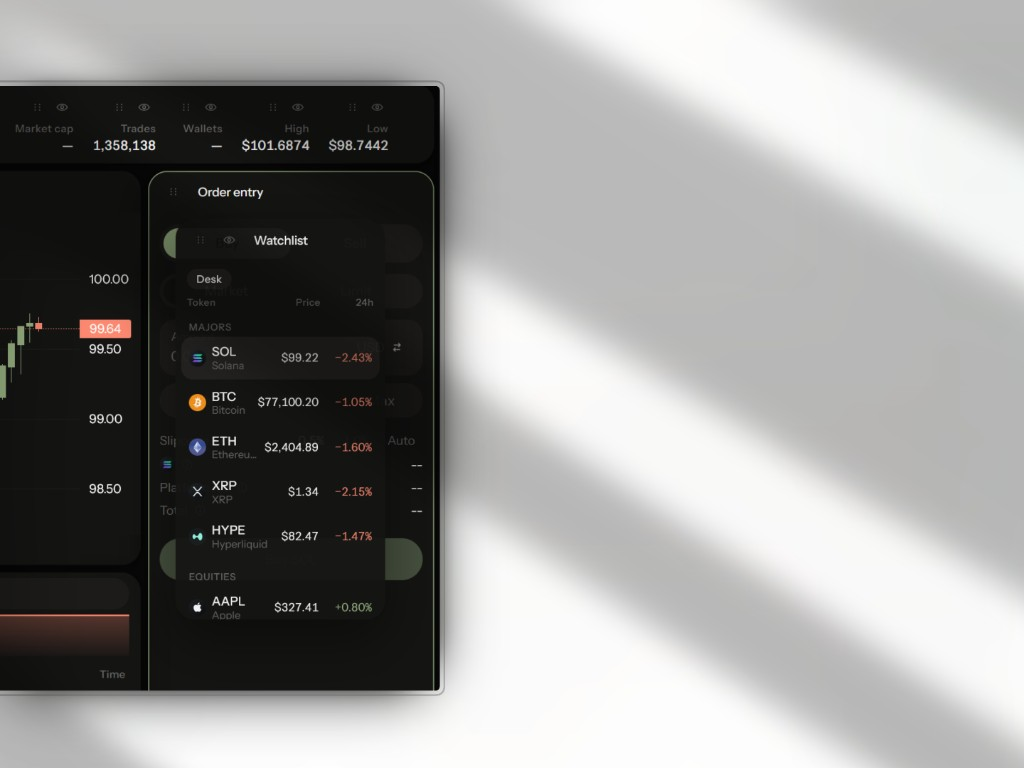
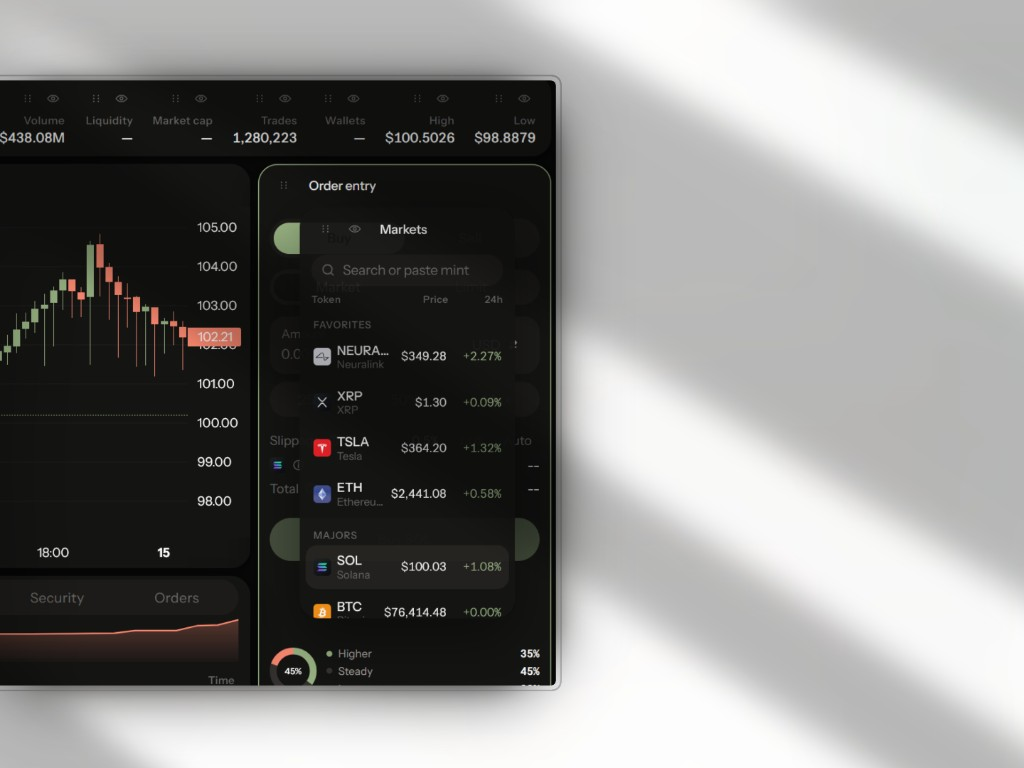
Swap the layout card for a markets panel floating over the desk.

diff --git a/index.html b/index.html
@@ -245,7 +245,7 @@
               <figure class="ambition__shot">
                 <img
                   src="./images/easy-layout.png"
-                  alt="Acend desk with a draggable watchlist over the chart and order ticket"
+                  alt="Acend desk with a draggable markets panel over the chart and order ticket"
                   width="1024"
                   height="768"
                 />
